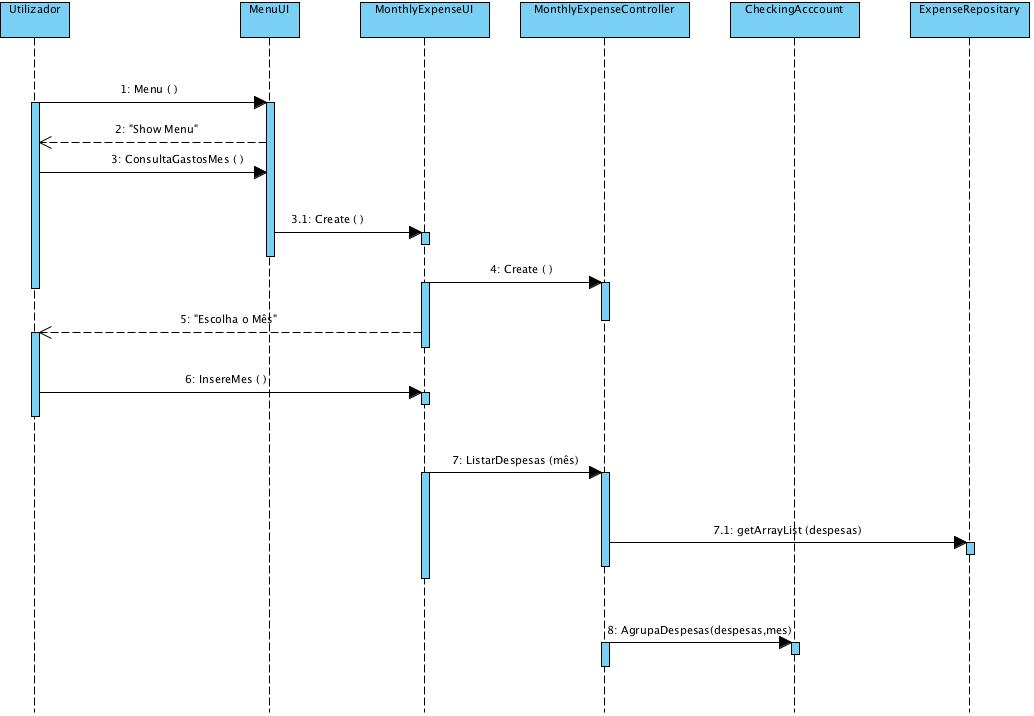
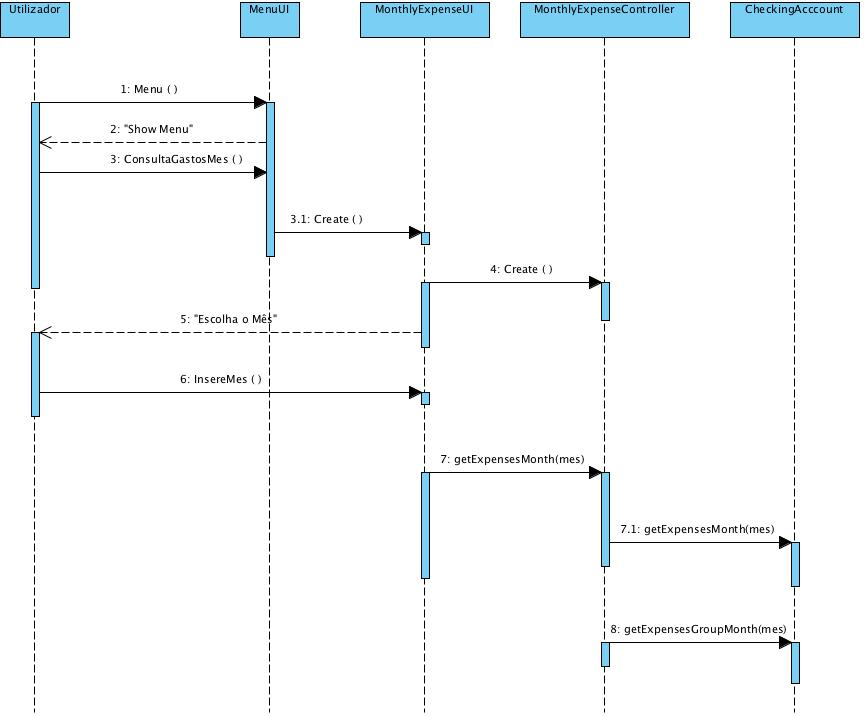
no message

diff --git a/eapli.expensemanager/src/Controllers/MonthlyExpenseController.java b/eapli.expensemanager/src/Controllers/MonthlyExpenseController.java
@@ -12,7 +12,9 @@ import java.util.Date;
 import java.util.List;
 
 import Model.Expense;
-import Persistence.InMemory.ExpenseRepositoryImpl;
+import Model.CheckingAccount;
+//import Persistence.InMemory.ExpenseRepositoryImpl;
+
 /**
  *
  * @author Mak3r
@@ -29,24 +31,25 @@ public class MonthlyExpenseController {
         float sum=0.0f;
         Expense expense;
         Date data;
+        CheckingAccount ca = new CheckingAccount();
+        List <Expense> listMonthlyExpense = null;
+        listMonthlyExpense = ca.getListExpense();
         
-        List<Expense> listExpense=ExpenseRepositoryImpl.getInstance().getListExpense();
-        
-        for(int i=0;i<listExpense.size(); i++){
-       
-            expense=(Expense)listExpense.get(i);
-            amount=expense.getAmount();
-            data=expense.getDate();
-            Calendar cal = Calendar.getInstance();
-            cal.setTime(data);
-            int m = cal.get(Calendar.MONTH);
+     
+        for(Expense list : listMonthlyExpense){
+          amount = list.getAmount();
+          data= list.getDate();
+          Calendar cal = Calendar.getInstance();
+          cal.setTime(data);
+          int m = cal.get(Calendar.MONTH);
          
-            if(m==mes)
-                sum+=amount.floatValue();
+          if(m==mes)
+               sum+=amount.floatValue();
 
         
         }
         return sum;
     }
+    
     
 }

diff --git a/eapli.expensemanager/src/Presentation/MonthlyExpenseUI.java b/eapli.expensemanager/src/Presentation/MonthlyExpenseUI.java
@@ -14,14 +14,15 @@ import eapli.util.Console;
 
 public class MonthlyExpenseUI extends BaseUI {
 
-    private MonthlyExpenseController controller;
+    MonthlyExpenseController controller = null;
    
 
     public MonthlyExpenseUI() {
 
         controller = new MonthlyExpenseController();
     }
-
+    
+    @Override
     public String getTitle() {
 
         return "*Monthly Expense  ";
@@ -29,8 +30,6 @@ public class MonthlyExpenseUI extends BaseUI {
 
     @Override
     public void showContent() {
-
-       
         int mes;
         mes = Console.readInteger("What month:");
         float despesa = controller.getExpensesMonth(mes);

diff --git a/eapli.expensemanager/src/Presentation/MainMenu.java b/eapli.expensemanager/src/Presentation/MainMenu.java
@@ -56,6 +56,7 @@ public class MainMenu {
                     break;
                 case 5:
                     MonthlyExpenseUI uiME = new MonthlyExpenseUI();
+                    uiME.show();
                     break;
                 case 6:                    
                     WeeklyExpenseUI uiWE = new WeeklyExpenseUI();
